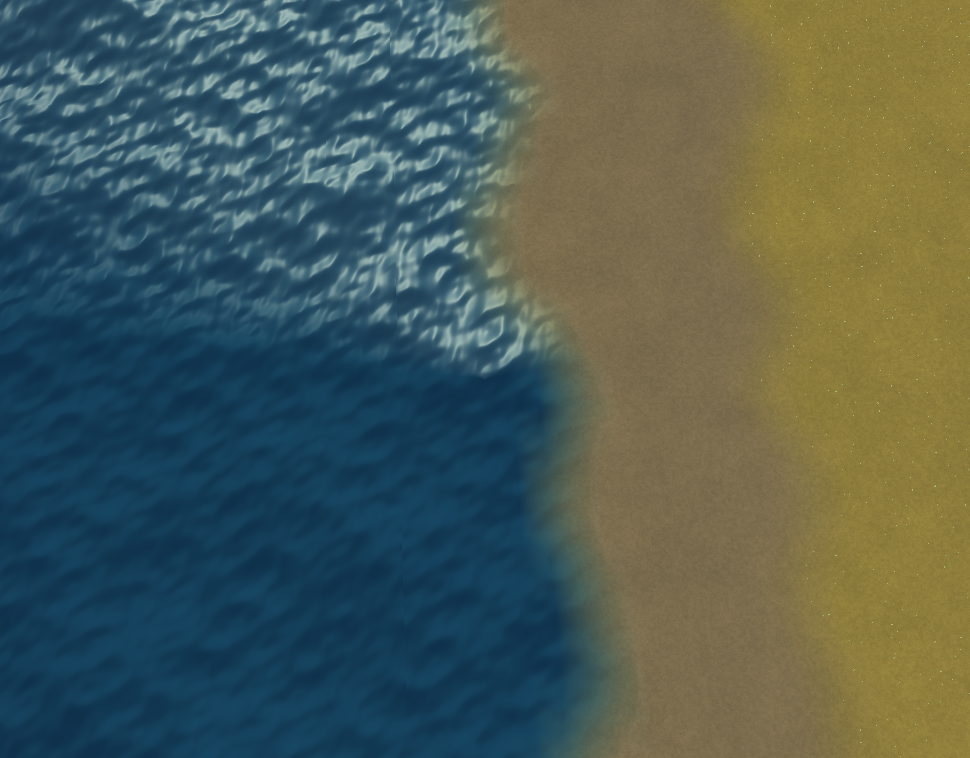
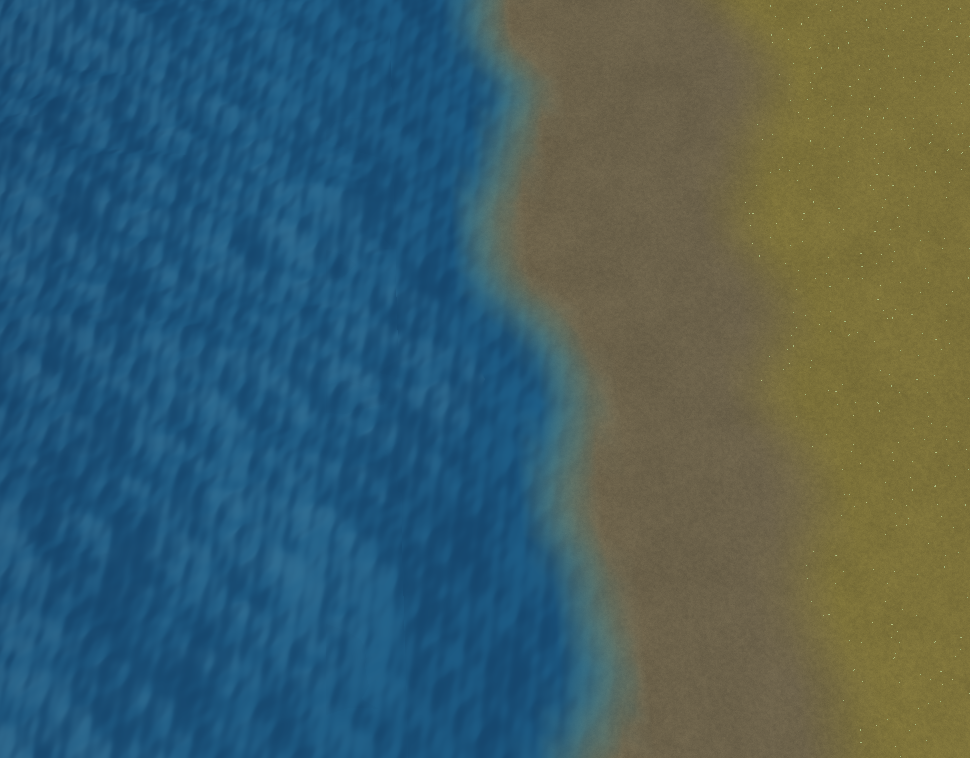
battle water: sun-independent shallow-scatter restores the Aegean turquoise shore
Root cause (NOT the SEA_SWELL_SCALE the handoff suspected — proven inert):
water-coastal/water-open-sea render the game-renderer bespoke WGSL water
(battle-terrain-3d: groundPass field water + horizonPass ocean planes), NOT
the photoreal seaLayer.ts. Reverting SEA_SWELL_SCALE left both scenes byte-for-
byte red; the water WGSL is identical to the stale baseline commit. The turquoise
died when the locked slice-10c golden-hour sun flipped azimuth pi/2 -> pi:
isolated probes show the AZIMUTH move alone kills it (elevation 0.5->0.35 is
innocent). The shallow band was riding the warm sun-sheen/glint, which collapses
once the sun swings behind the fixed WATER_VIEW_DIR.

Fix: a sun-INDEPENDENT sandy-bottom backscatter lift in the shared waterShade,
keyed on shallowness (1 - depth01) and self-coloured, so the shore reads bright
Aegean turquoise under any sun and dies to zero in deep water. The locked sun
and the approved photoreal sea (separate renderer) are both untouched.

Verified (PORT 5181, VERIFY_GPU=1): water-coastal + water-open-sea green
(assertions pass; baselines re-blessed to the locked sun); photoreal-sea 4/4
crops 0px; terrain-3d + all 6 terrain-blockers 0px; terrain-elevation within
tolerance. typecheck + 71/71 unit pass.

Claude-Session: https://claude.ai/code/session_013rdQNr3rDGxmLVNKi2ZEZf

diff --git a/packages/game-renderer/src/water/waterMaterialWgsl.ts b/packages/game-renderer/src/water/waterMaterialWgsl.ts
@@ -35,6 +35,14 @@ fn waterShade(sample: WaterSample, sunDir: vec3f, glintBand: f32, depth01: f32, 
   let sky = clamp(n.z * 0.5 + 0.5, 0.0, 1.0);
   let light = WATER_KEY * (0.34 + 0.66 * diff) + WATER_FILL * (0.28 + 0.32 * sky);
   var col = albedo * light * WATER_EXPOSURE;
+  // Sandy-shallow backscatter: shallow water over the bright bottom scatters
+  // light back to the eye regardless of the sun's position, so the shore reads
+  // as bright Aegean turquoise even when the sun swings behind the view (the
+  // locked 10c azimuth). Keyed on shallowness (sun-INDEPENDENT, unlike the
+  // glint) and self-coloured, so it lifts the authored shallow hue and dies to
+  // zero in deep water — the open sea is unchanged.
+  let shallowScatter = 1.0 - clamp(depth01, 0.0, 1.0);
+  col = col + albedo * (WATER_SHALLOW_SCATTER * shallowScatter) * WATER_EXPOSURE;
   let foam = clamp(sample.foam, 0.0, 1.0);
   // Sun glint, the sun's own colour (WATER_KEY), banded to the sun azimuth: a
   // broad soft sheen (the warm sun-glitter track that makes the water carry the

diff --git a/packages/game-renderer/src/water/waterPalette.ts b/packages/game-renderer/src/water/waterPalette.ts
@@ -13,6 +13,7 @@ const WATER_SHALLOW_ALBEDO = vec3f(0.09, 0.29, 0.40); // Aegean turquoise, blue-
 const WATER_DEEP_ALBEDO = vec3f(0.02, 0.07, 0.19);    // deep blue
 const WATER_FOAM_ALBEDO = vec3f(0.92, 0.93, 0.94);    // white spray (lit by the preset)
 const WATER_GLINT_GAIN = 1.1;                          // specular strength; colour = the sun's
+const WATER_SHALLOW_SCATTER = 0.6;                     // sandy-bottom backscatter lift at the shore (sun-independent)
 `;
 
 // The campaign strategic sea's albedo — a MUTED, slightly-desaturated chart blue,
